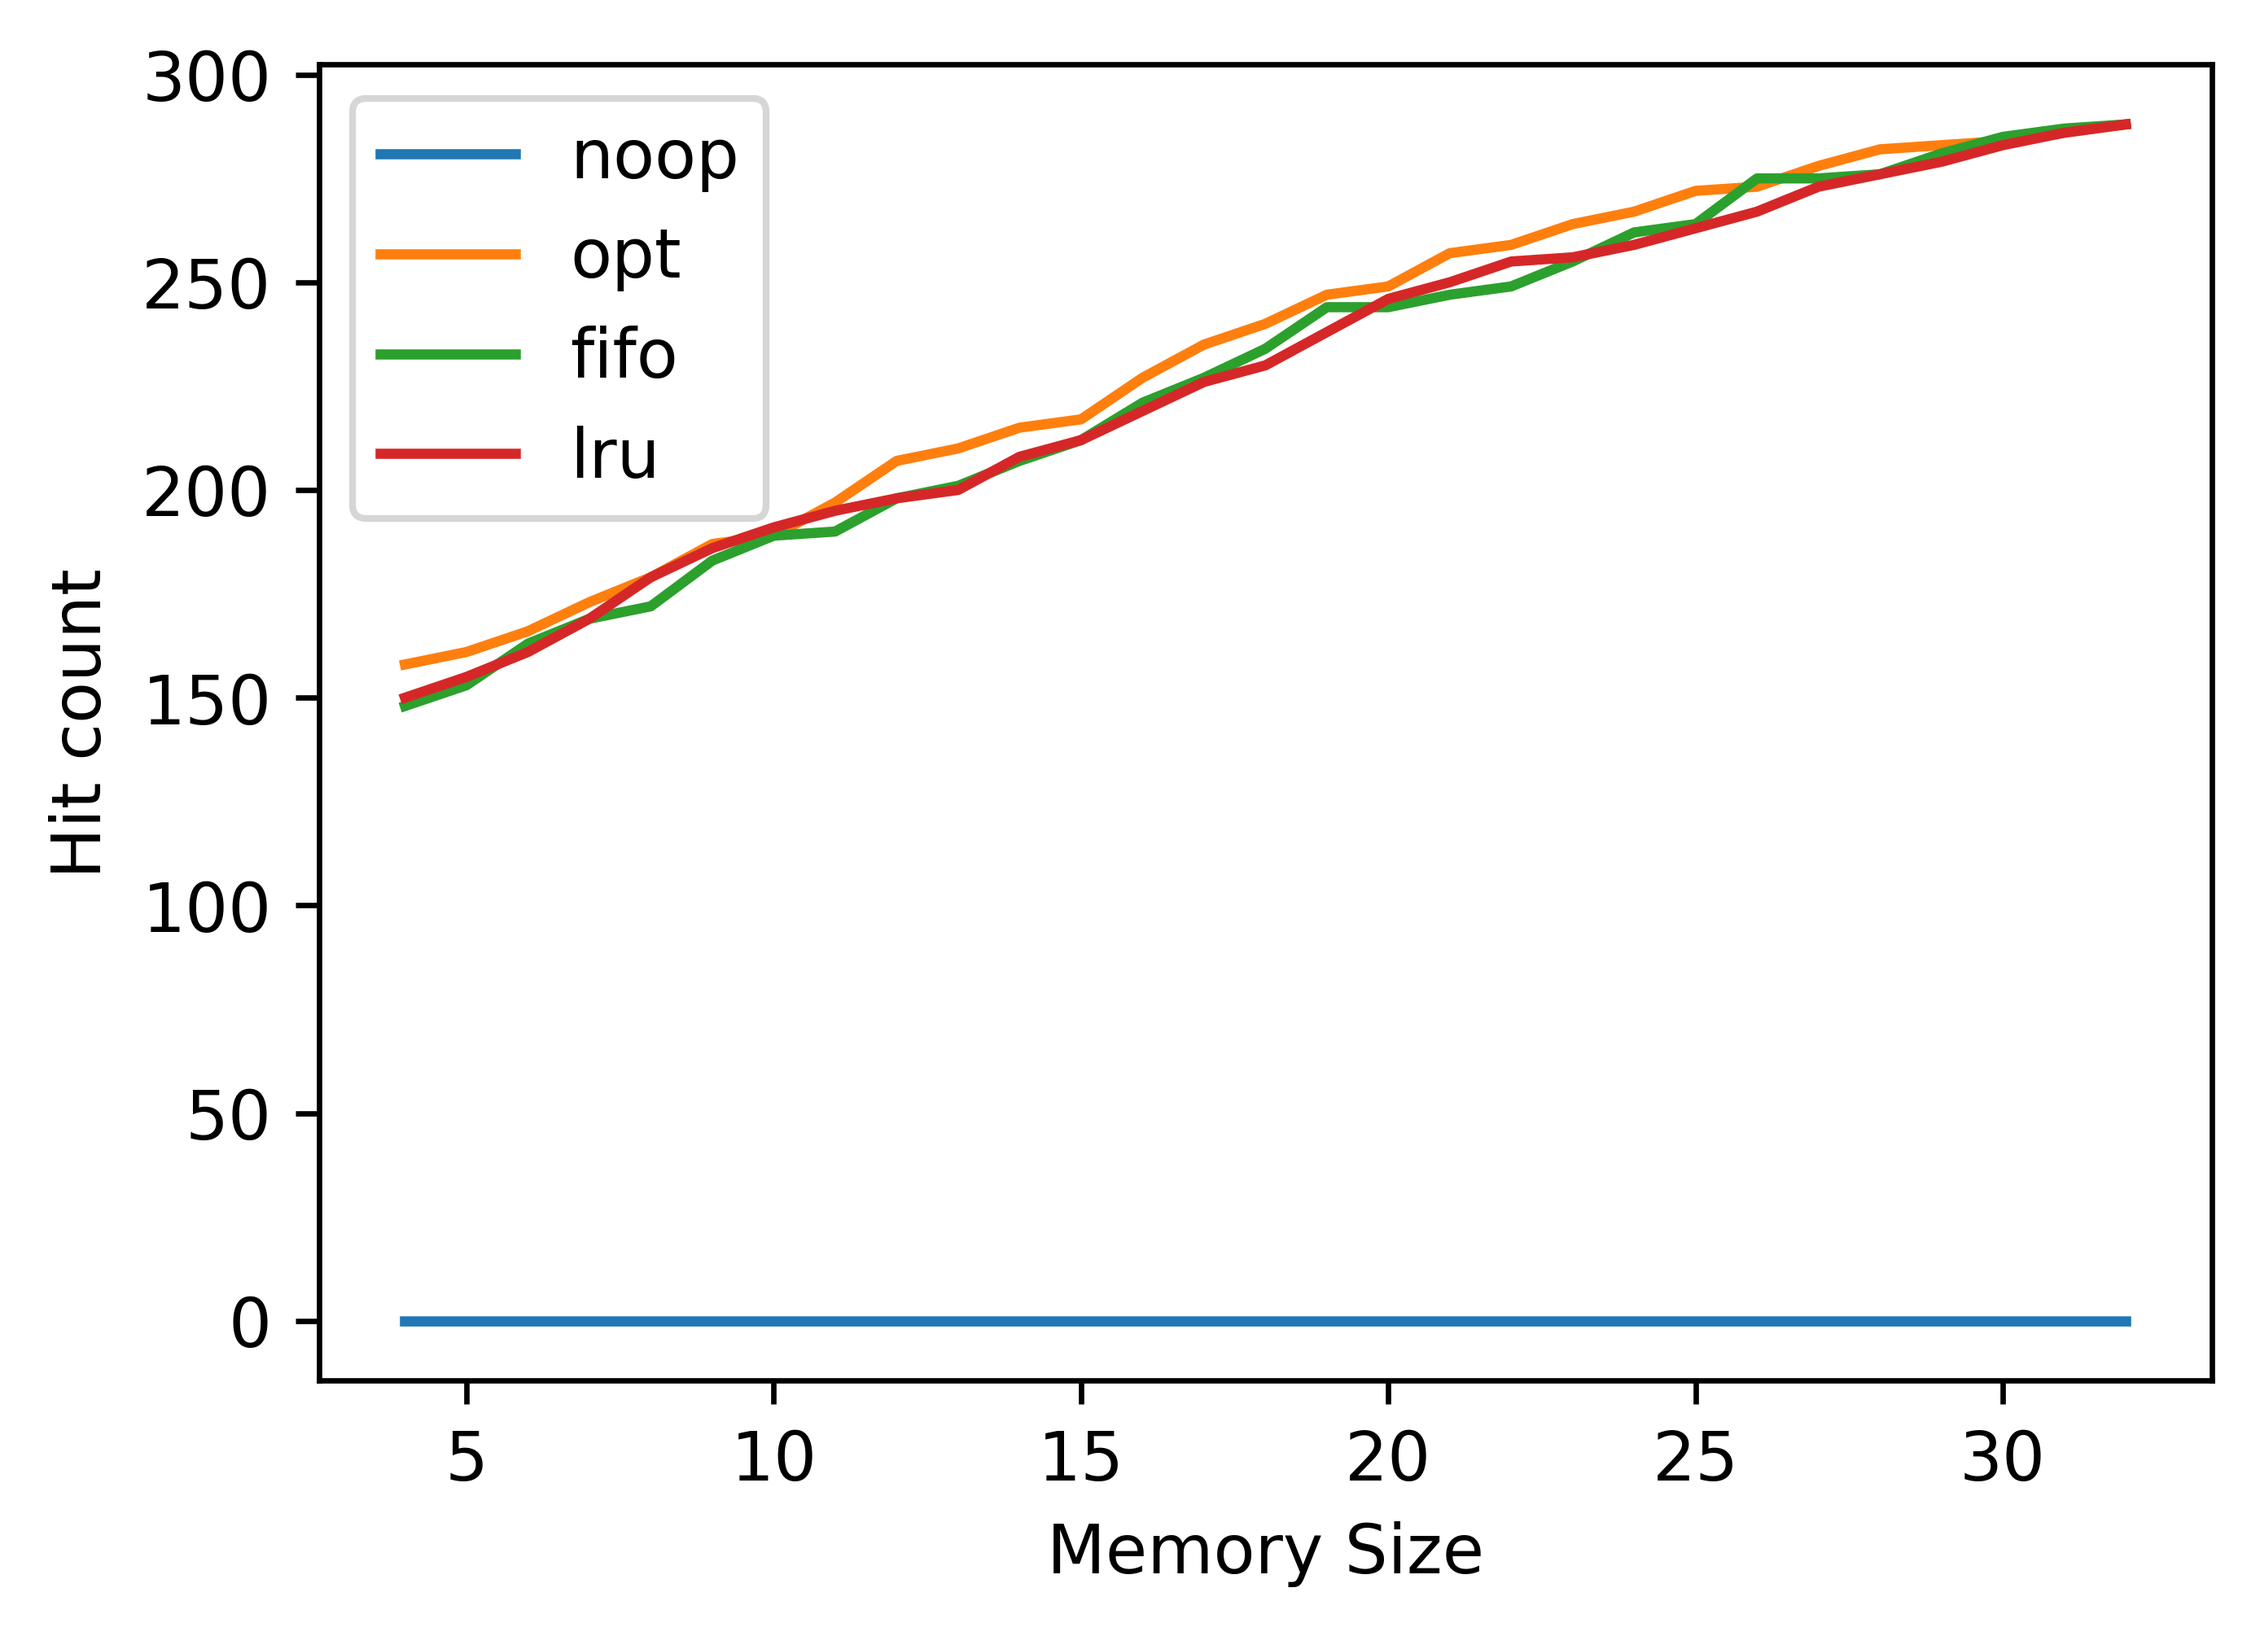
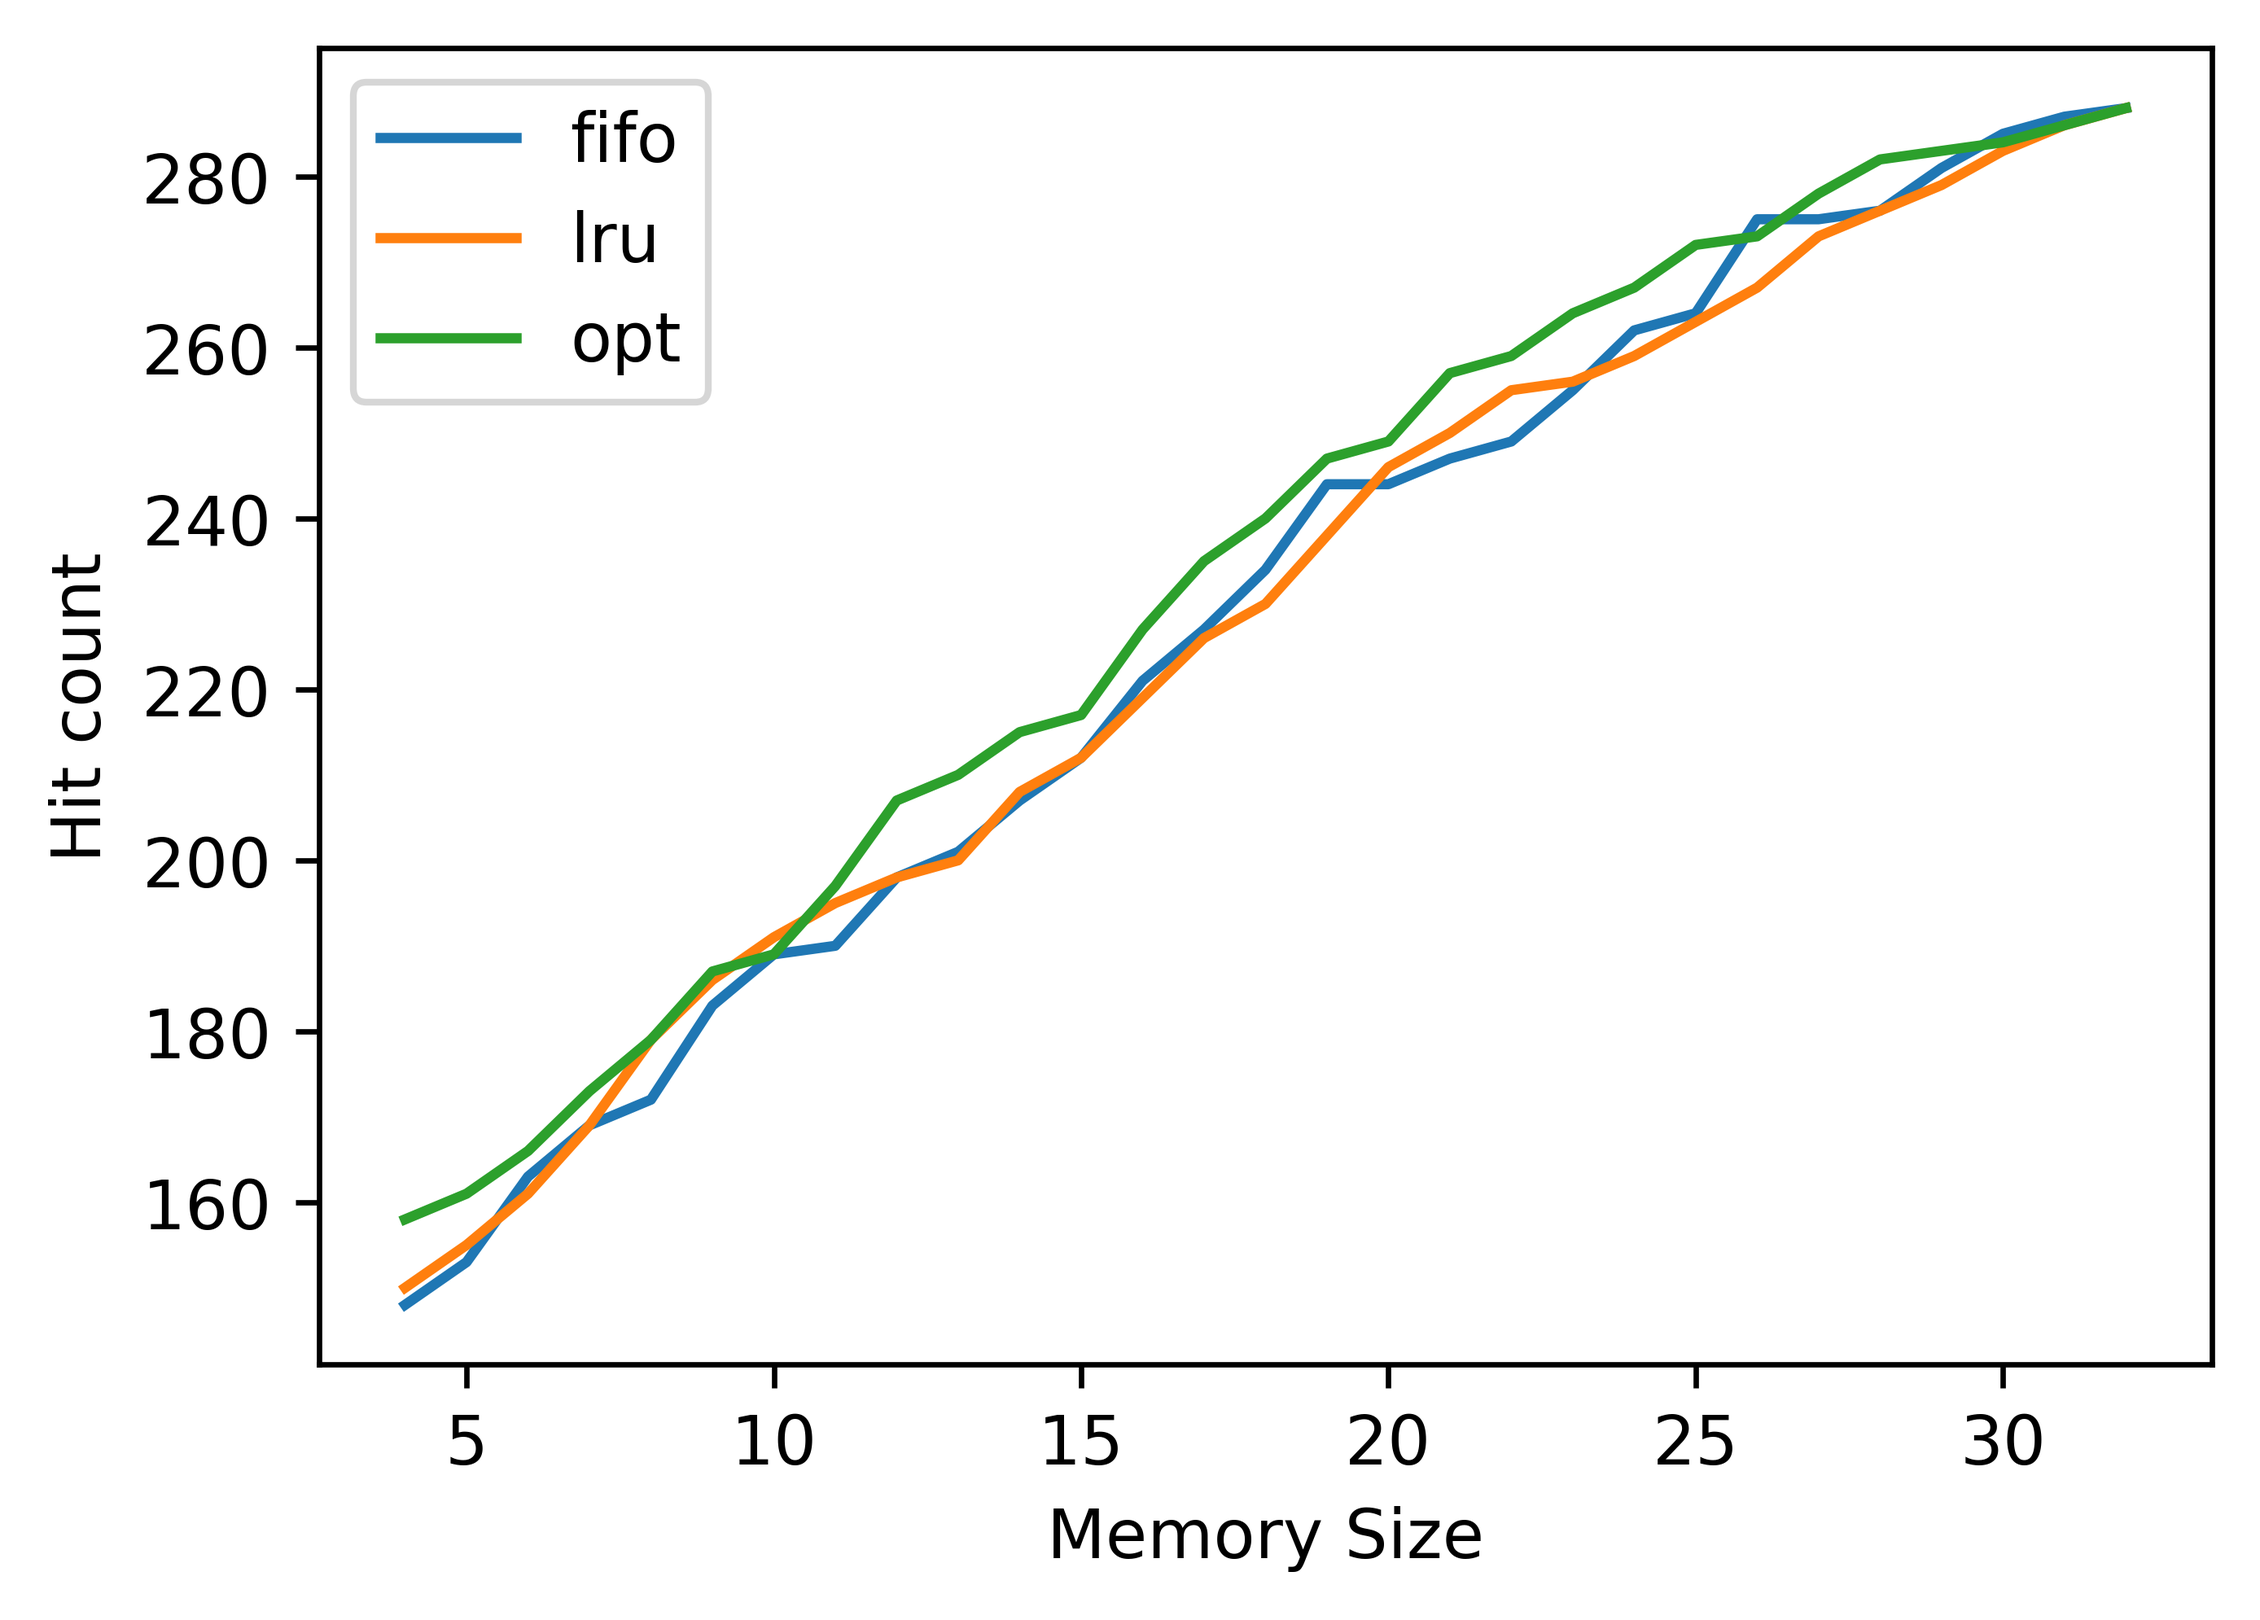
23.5.11-1

diff --git a/main.py b/main.py
@@ -1,6 +1,6 @@
 
 # read a file as lines
-data = open('D:\\repos\\itos_exp\\itos_exp3\\result.txt').readlines()
+data = open('/home/konqi/repos/itos_exp/itos_exp3/result.txt').readlines()
 # filter out empty lines
 data = [line.strip() for line in data if line.strip()]
 # split each line by ,
@@ -27,7 +27,7 @@ import matplotlib.pyplot as plt
 fig = plt.figure(figsize=(5, 3.5), dpi=600)
 ax = fig.add_subplot(111)
 
-for kind in groups:
+for kind in ['fifo','lru','opt']:
     ax.plot([x[0] for x in groups[kind]], [x[1] for x in groups[kind]], label=kind)
 
 ax.set_xlabel('Memory Size')
